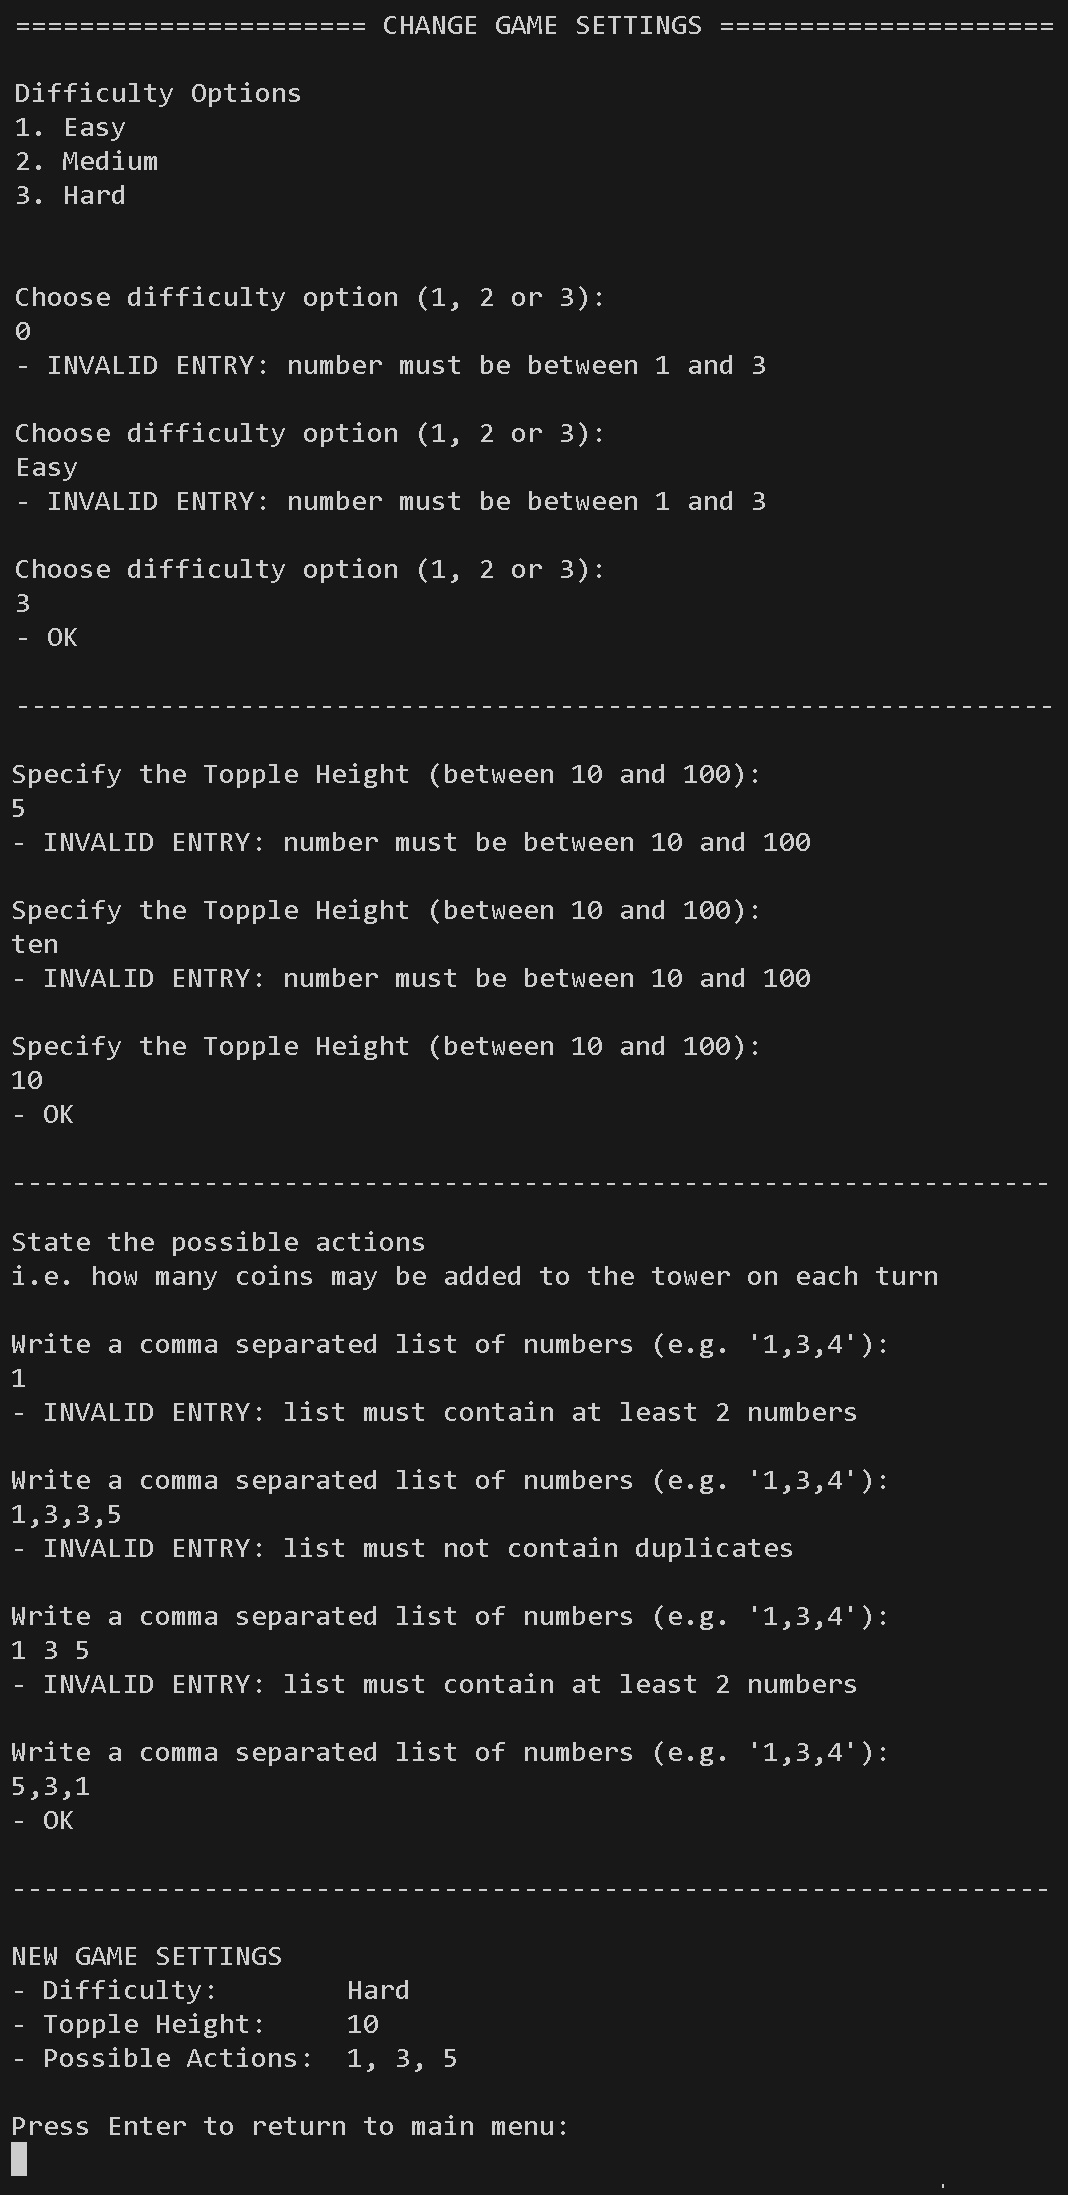
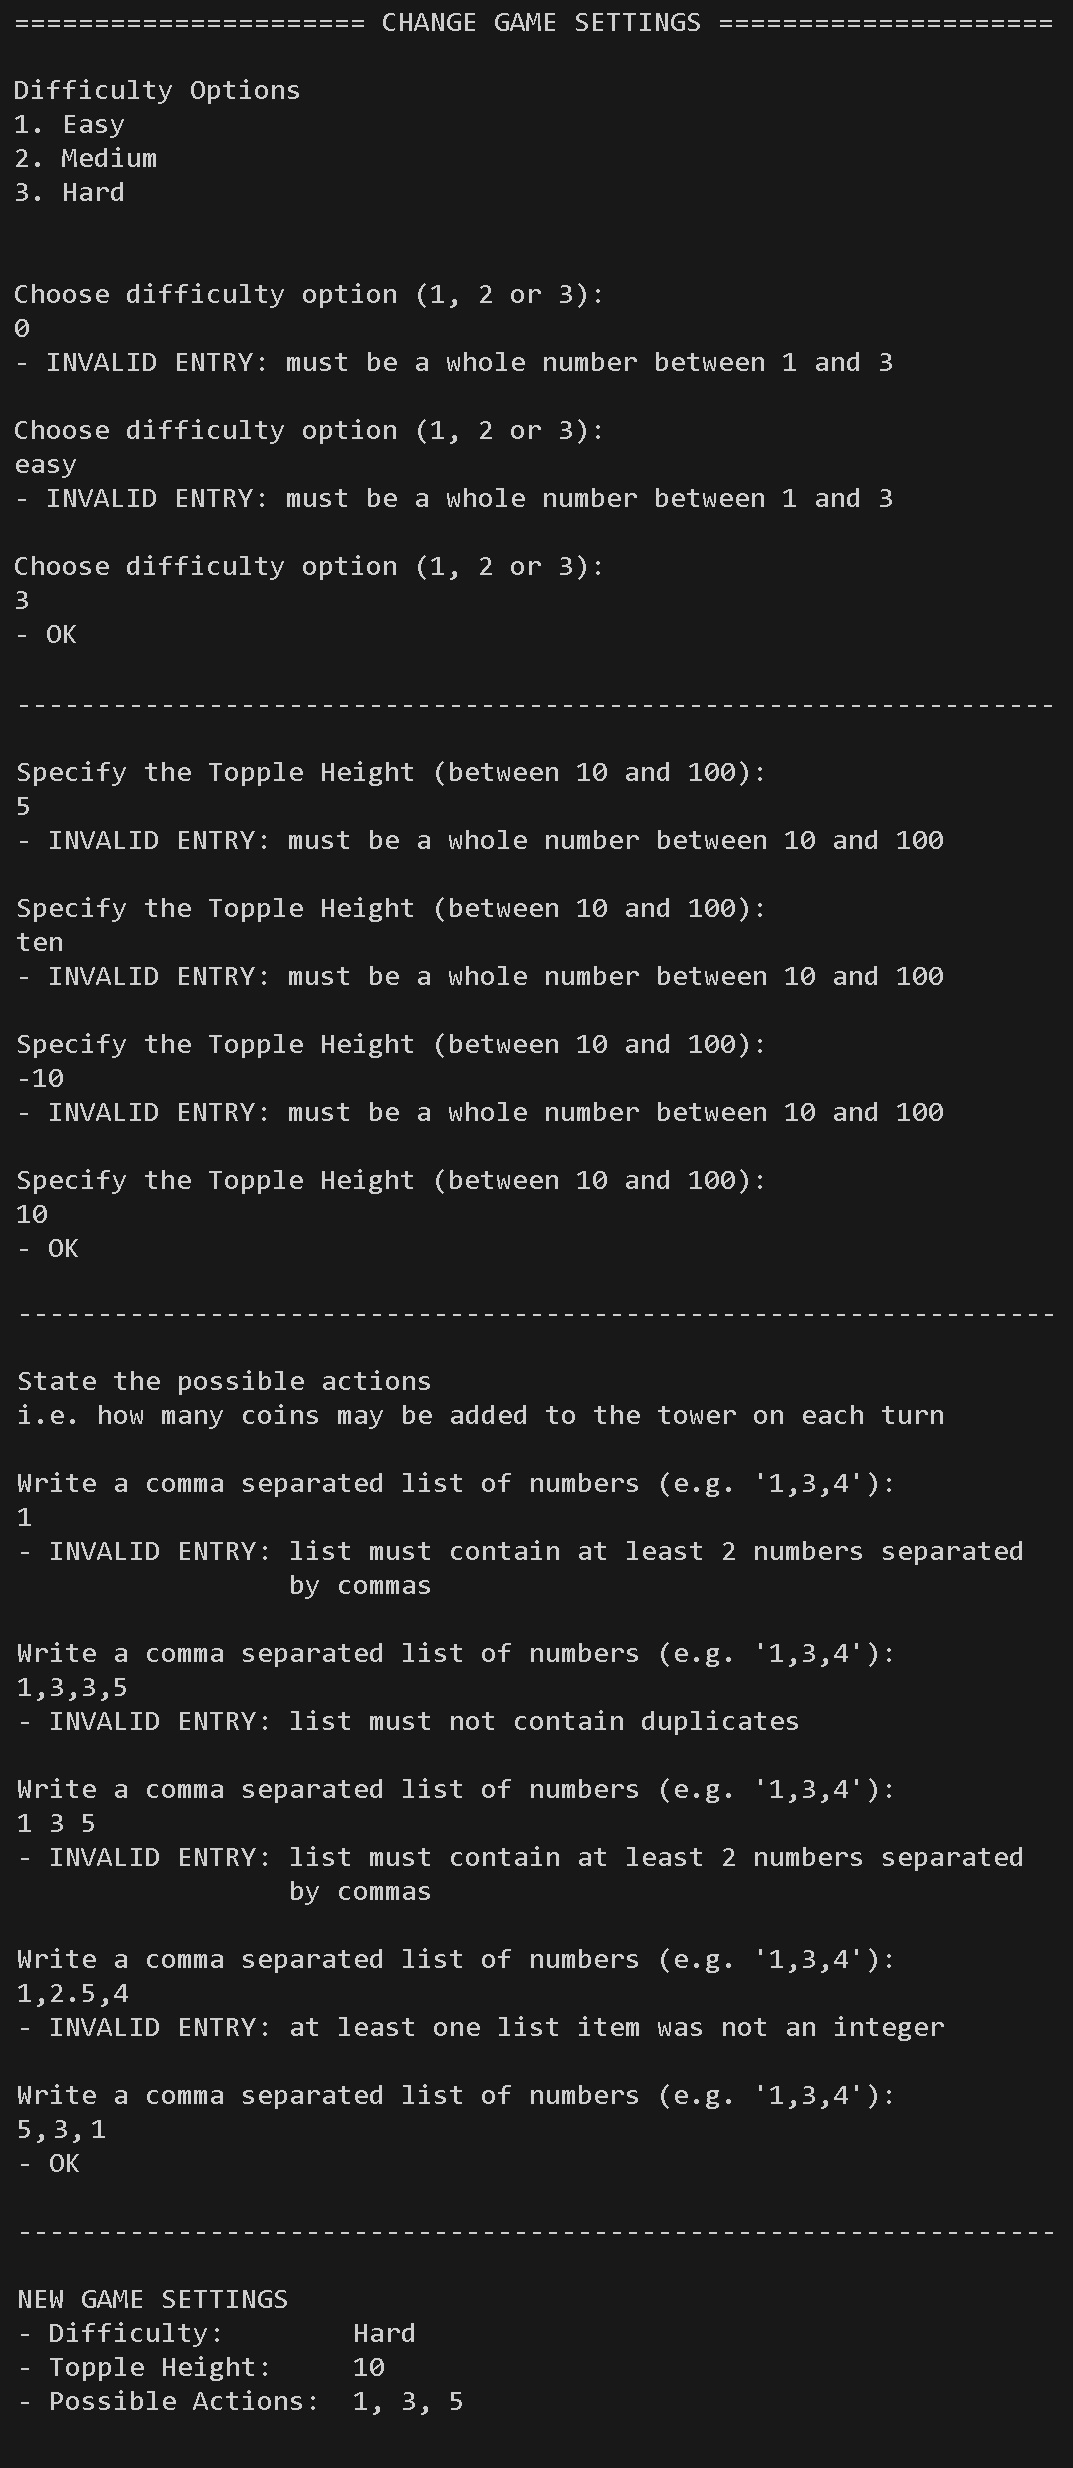
Update INVALID ENTRY prompts to make clearer that numbers must be integers and lists must be comma separated

diff --git a/coin_tower_topple.py b/coin_tower_topple.py
@@ -92,7 +92,7 @@ class CoinTowerTopple:
             except (KeyError, ValueError):
                 print(
                     "- INVALID ENTRY: "
-                    "must be a number between 1 and "
+                    "must be a whole number between 1 and "
                     f"{len(self.main_options)}\n"
                 )
             else:
@@ -374,7 +374,7 @@ greater than or equal to the 'topple height'.
             except ValueError:
                 print(
                     "- INVALID ENTRY: "
-                    f"number must be between {min} and {max}\n")
+                    f"must be a whole number between {min} and {max}\n")
 
     def _get_valid_int_list(self, prompt, min, max):
         """
@@ -397,7 +397,8 @@ greater than or equal to the 'topple height'.
                 if len(nums) < 2:
                     raise CustomError(
                         "- INVALID ENTRY: "
-                        "list must contain at least 2 numbers\n"
+                        "list must contain at least 2 numbers separated\n"
+                        "                 by commas\n"
                     )
 
                 # Convert to integers (or raise error)

diff --git a/README.md b/README.md
@@ -82,7 +82,9 @@ Once the user enters a valid action, the tower height is updated and the turn sw
 
 At the end of the game, the user is asked whether they wish to play the game again using the current game settings. If they choose 'n' (for no) then they will 'return' to the Main Menu. If they choose 'y' (for yes) then a new game will start. If they enter any other value, they will be presented with an error message and prompted to give a valid input.
 
-The image below shows what happens when a user enters 'yes', a null string and '1'.
+The image below shows what happens when a user enters 'yes', a whitespace and 'Y' (capital letter). 
+
+***NOTE:*** *To enhance the user experience, case sensitivity is not enforced here. As a result, the last user input is considered valid and a new game begins.*
 
 ![Input validation when choosing whether to replay the game](readme-images/end-of-game-validation.jpg)
 
@@ -103,7 +105,9 @@ The next image shows what happens when users enter a variety of invalid inputs:
 
 ![Change Game Settings page with invalid user inputs](readme-images/change-game-settings-invalid-input.jpg)
 
-***NOTE:*** *when entering the possible actions, the order of the numbers is automatically sorted from low to high (see last user input and the summary of the new game settings in the image above). This is done to make it clearer for the user but is also required by the `_play` method in the `CoinTowerTopple` class when checking whether the opponent is forced to topple the tower on their next move.*
+***NOTE:*** *When entering the possible actions list, the order of the numbers is automatically sorted from low to high (see last user input and the summary of the new game settings in the image above). This is done to make it clearer for the user but is also required by the `_play` method in the `CoinTowerTopple` class when checking whether the opponent is forced to topple the tower on their next move.*
+
+***NOTE:*** *When entering the possible actions list, any leading and/or trailing whitespaces for list items are allowed as these are removed as part of the validation process.*
 
 At the end of the process, the new game settings are shown and the user is prompted to 'return' to the main menu by pressing Enter.
 
@@ -149,6 +153,30 @@ The following python packages were used:
 - <a href="https://docs.python.org/3/library/sys.html" target="_blank" rel="noopener">**sys**</a> - to close the program when the user chooses 'Quit' from the Main Menu
 - <a href="https://docs.python.org/3/library/random.html" target="_blank" rel="noopener">**random**</a> - to generate random numbers and make random choices from a list
 - <a href="https://docs.python.org/3/library/pprint.html" target="_blank" rel="noopener">**pprint**</a> - to view q_values after training the AI during development (this dependency was removed before deployment)
+
+# Testing
+
+## Manual Tests
+
+Manual tests were carried out on the deployed version to ensure correct functionality.
+
+These tests included the following:
+
+### 1. Data Validation
+
+The following inputs were tested to ensure that all errors were handled correctly:
+- Empty
+- Whitespace
+- Case sensitivity
+- Integer inputs (within the accepted range and outside, including zero and negative numbers)
+- floats
+- strings of incorrect values (e.g. 'yes' rather than 'y')
+- strings of incorrect capitalisation
+- comma separated lists with less than two items
+- comma separated lists with duplicate values
+- comma separated lists unordered
+
+
 
 # Deployment
 
